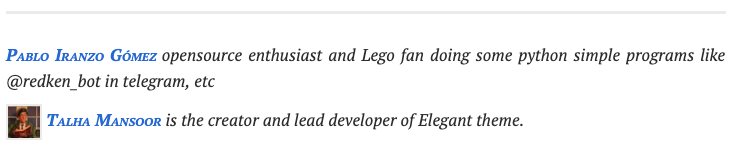
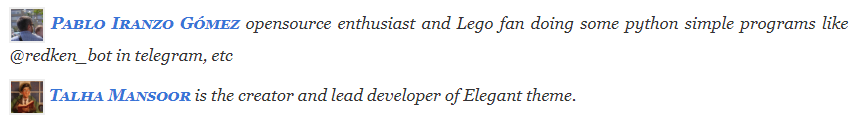
doc(changes): Rewriting article on author blurbs.

Changed region(s): [[0.0, 0.0756, 0.9878, 0.605], [0.0, 0.6807, 0.7184, 0.958]]

diff --git a/documentation/content/Elegant - Pelican Theme/author-blurbs.md b/documentation/content/Elegant - Pelican Theme/author-blurbs.md
@@ -1,19 +1,34 @@
-Title: Adding Author Blurbs
+---
+Title: Add Author Blurbs to Your Articles
 Tags: pelican-theme, web-design
 Category: Elegant - Pelican Theme
 Date: 2018-12-07 11:00
 Slug: adding-author-blurbs
 Disqus_identifier: c8et6bu-adding-author-blurbs
 Subtitle:
-Summary: Adding informational author blurbs
+Summary: Elegant can be configured to provide author blurbs for articles, relaying extra information on the authors of the articles.
 Keywords:
+Authors: Talha Mansoor, Jack De Winter
+---
 
 [TOC]
 
-## Adding Author Blurbs
+On websites where the author of an article may vary, many sites include a quick blurb about
+the author with the article.  This blurb will typically be at the start of the article or the
+end of the article, and provides extra information for readers on the author.  Elegant provides
+this feature, adding a section for any recognized articles at the end of the article.
 
-At the end of each article, you can provide a small blurb about the author. This
-can be done by setting up the `AUTHORS` dictionary in your configuration file.
+Here are two examples of what the Author Blurbs may look like:
+
+![Author Blurb 1]({static}/images/author-blurb.png)
+
+![Author Blurb 2]({static}/images/author-blurb2.png)
+
+## Configuration
+
+To enable author blurbs for your articles, you need to add an `AUTHORS` configuration variable
+to your pelican configuration.  The `AUTHORS` configuration variable for the Elegant
+documentation website is specified as follows:
 
 ```python
 AUTHORS = {
@@ -25,37 +40,55 @@ AUTHORS = {
     "Pablo Iranzo Gómez": {
         "url": "http://iranzo.github.io",
         "blurb": " opensource enthusiast and Lego fan doing some python simple programs like @redken_bot in telegram, etc",
+        "avatar": "https://avatars.githubusercontent.com/u/312463",
+    },
+    "Jack De Winter": {
+        "url": "http://jackdewinter.github.io",
+        "blurb": "ever evolving, ever learning",
     },
 }
 ```
 
-Key of every entry in `AUTHORS` dictionary is the author name, for example "Pablo Iranzo Gómez".
+The value assigned to the configuration variable is a Python dictionary[^PythonDictionary]
+containing one key-value pair for every author.  The key for the key-value pair is the name of
+the author as you want it to appear at the end of the article.  In the our example, the three
+authors are "Tahla Mansoor", "Pablo Iranzo Gómez", and "Jack De Winter".
 
-The value of each key is a dictionary which has three keys.
+[^PythonDictionary]: For more information on Python dictionaries, refer to this comprehensive article on [Python dictionaries](https://realpython.com/python-dicts/).
 
-1. `url` (string) URL that could be link to author's homepage or profile
-1. `blurb` (string) brief introduction of author
-1. `avatar` (string) URL to author's avatar. You could link to an image on your site or to an image on Gravatar, Imgur or any other image host service
+The value for each of the key-value pairs is it's own dictionary.  Elegant specifically looks
+for three keys in the each author's dictionary:
 
-Add an entry for each author you'd like a blurb to appear for.
+- `url` (string) URL to the author's homepage or profile
+- `blurb` (string) Introduction of author
+- `avatar` (string) URL to author's avatar image
 
-These blurbs will appear for each known author, as defined in the `AUTHORS`
-dictionary. If an unknown author appears, they will not receive a blurb.
+For the `url` and `avatar` values, there is no restriction on where the URL resides.  In the
+Elegant documentation example above, Tahla's URLs are both local, while Pablo's URLs are both
+remote.
 
-The article author is determined by the provided metadata in your content
-file. Valid values are:
+## Article Metadata
 
-- `author:` - This defines the _single_ author of the article.
-- `authors:` - This is a comma separated list of all article authors. Each known author will get a blurb. Each unknown author will not get a blurb.
-- Default author defined in your configuration file. If either of the two metadata above are not used, the default author you configured will be utilized. This author still requires an entry in the `AUTHORS` dictionary.
+While the configuration for Author Blurbs is centralized in the configuration file, enabling
+this feature for a given article requires that the article contains either the `author` or
+`authors` [metadata]({static}/Extra&#32;Customization/meta-data.md) field values.  If neither
+of these values are provided, the `AUTHOR` configuration variable will be used as a default.
 
-**Note:** If you define multiple authors, but use the `author:` metadata, a blurb
-will not be generated. This metadata is for a _single_ author. The correct way to
-declare more than one author is to use `authors:`.
+```Python
+AUTHOR = 'Pablo Iranzo Gómez'
+```
 
-This is an example of multiple authors using the following metadata value:
+The default `AUTHOR` configuration variable and the `author` metadata field are both denote a
+single author.  The `authors` metadata field denotes multiple authors using a comma separated
+list.
 
-    :::yaml
-    authors: Talha Mansoor, Milton Bradley
+For each author determined through in this manner, a check is performed against the `AUTHORS`
+configuration in the previous section on [Configuration](#Configuration).  If the author is
+found using a case-sensitive exact match, a blurb will be generated for that author. If the
+author is not found, it will be silently ignored.
 
-![Author Blurb]({static}/images/author-blurb.png)
+A good example of the `authors` metadata field is available by looking at the
+[raw Markdown](https://raw.githubusercontent.com/Pelican-Elegant/elegant/master/documentation/content/Elegant%20-%20Pelican%20Theme/author-blurbs.md) for this page.
+
+!!! warning
+    A frequent mistake is to define multiple authors, but assign the value to the `author` metadata field.  This can happen easily if one author writes the original version of the article and another author updates or changes that article.  This mistake causes Elegant to look for that *single* author using the entire text for that value.  The correct way to do this is to use `authors` metadata field.
